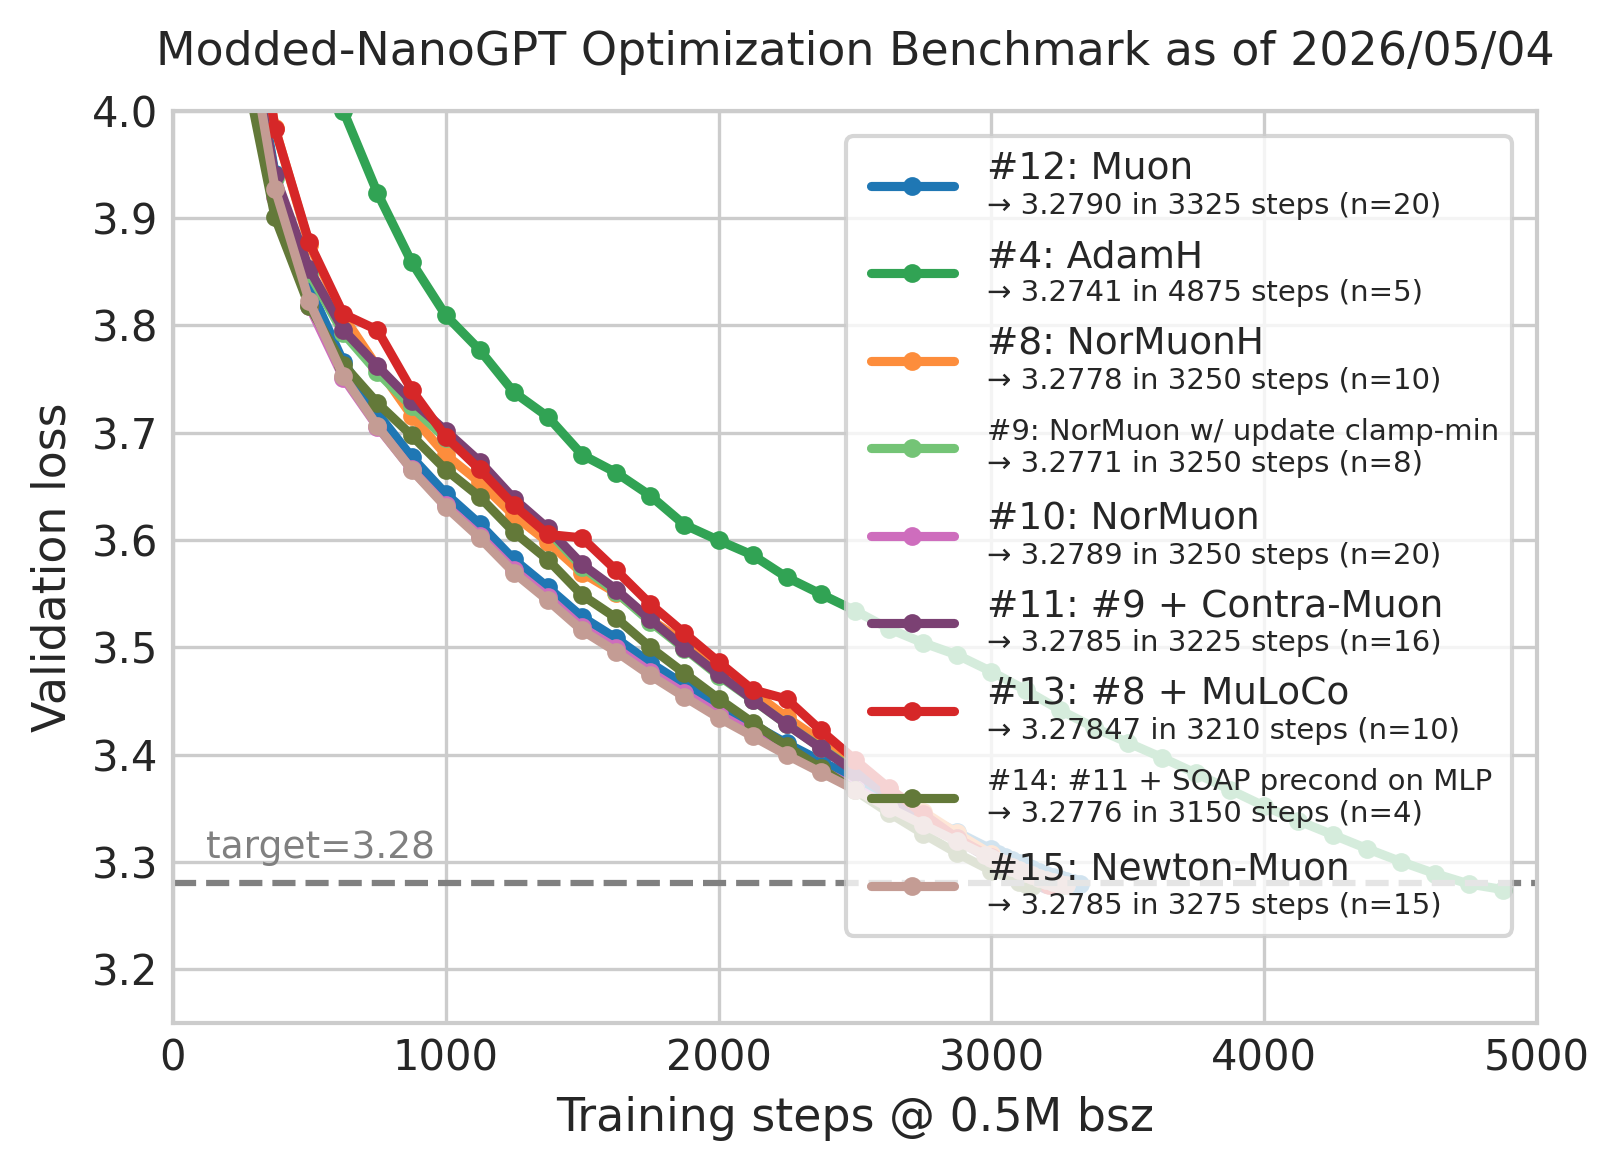
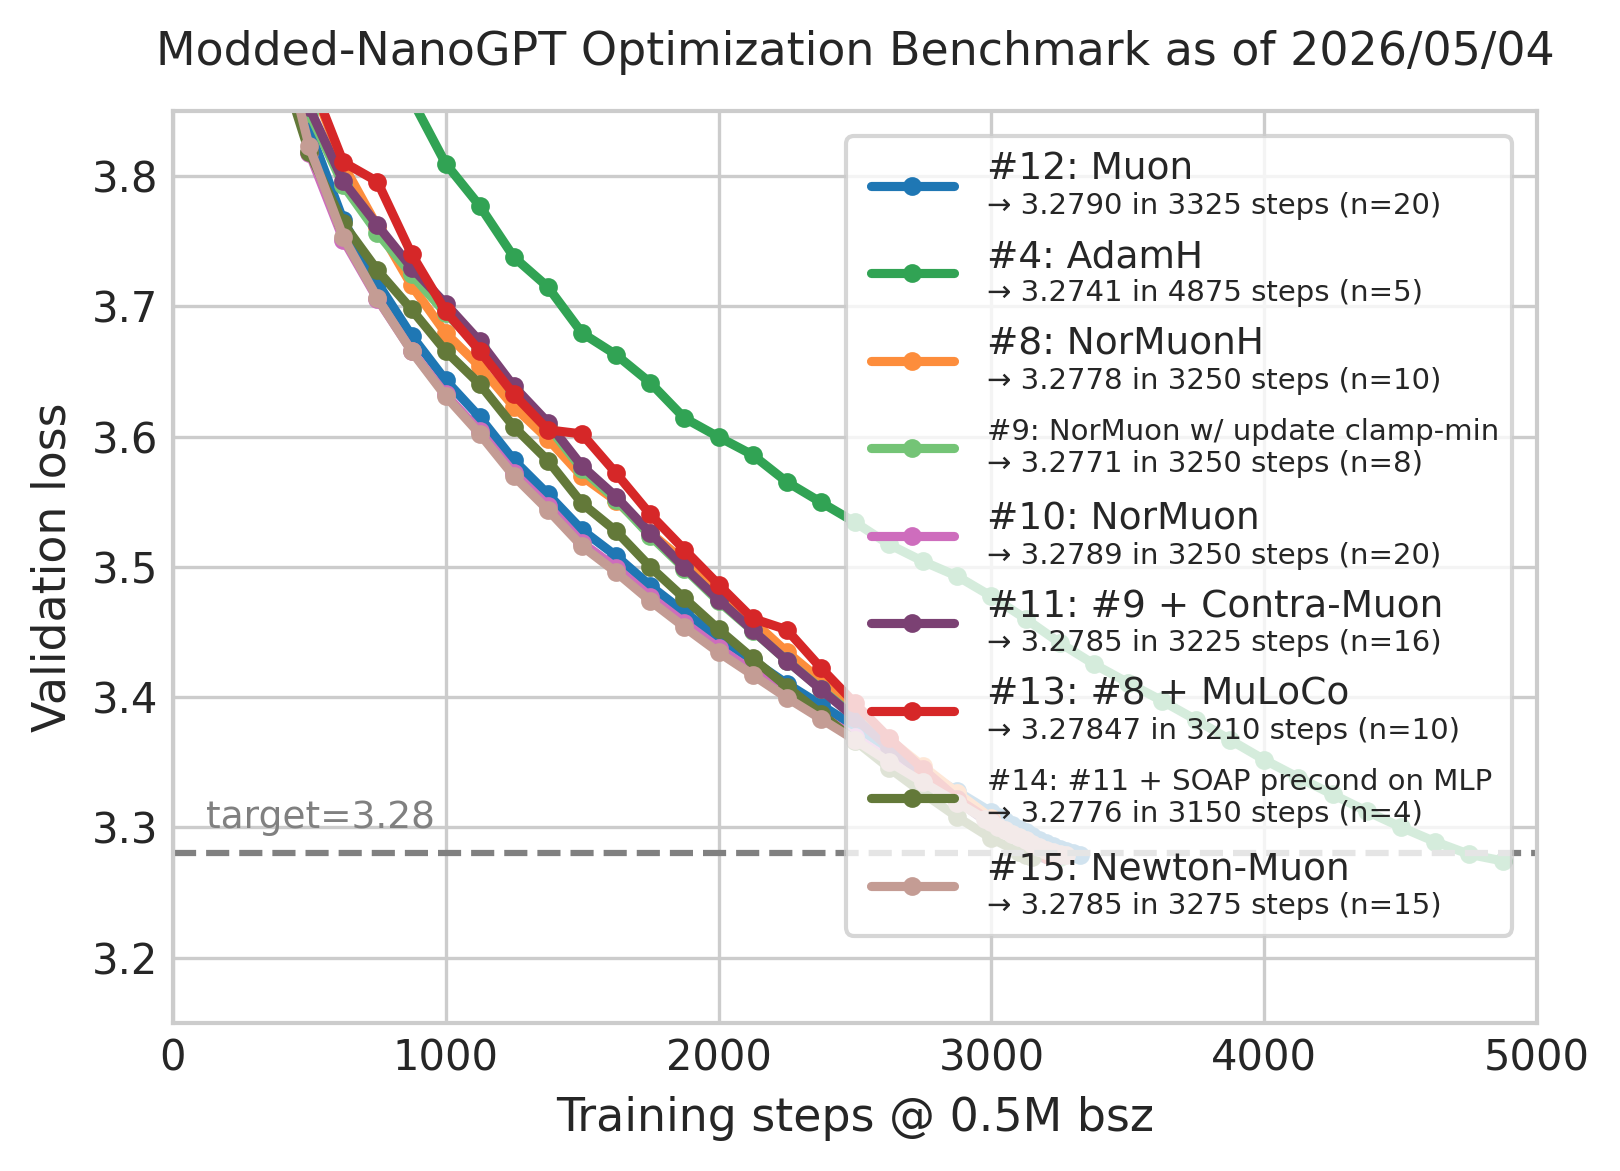
.

diff --git a/records/track_3_optimization/make_figures.py b/records/track_3_optimization/make_figures.py
@@ -211,14 +211,13 @@ for suffix in ["wr", "best"]:
 
     results, max_step = get_results(logfiles)
 
-    if suffix != "wr":
-        # Generate figure
-        fig, ax = plt.subplots(figsize=(5.5, 4), dpi=300)
-        plot_results(ax, results.values(), 0)
-        ax.set_xlim(0, math.ceil(max_step / 1000) * 1000)
-        ax.set_ylim(3.15, 4.0)
-        fig.tight_layout()
-        fig.savefig(f'figure_{suffix}.png', bbox_inches='tight')
+    # Generate figure
+    fig, ax = plt.subplots(figsize=(5.5, 4), dpi=300)
+    plot_results(ax, results.values(), 0)
+    ax.set_xlim(0, math.ceil(max_step / 1000) * 1000)
+    ax.set_ylim(3.2, 3.85)
+    fig.tight_layout()
+    fig.savefig(f'figure_{suffix}.png', bbox_inches='tight')
 
     # Generate zoomed-in figure
     zoom_min_step = 3000

diff --git a/records/track_3_optimization/README.md b/records/track_3_optimization/README.md
@@ -46,6 +46,7 @@ If it fails to reproduce (i.e., we get statistical evidence that its mean is abo
 
 <table>
   <tr>
+    <td width="50%"><img src="figure_wr.png" width="100%"></td>
     <td width="50%"><img src="zoomed_figure_wr.png" width="100%"></td>
   </tr>
 </table>
